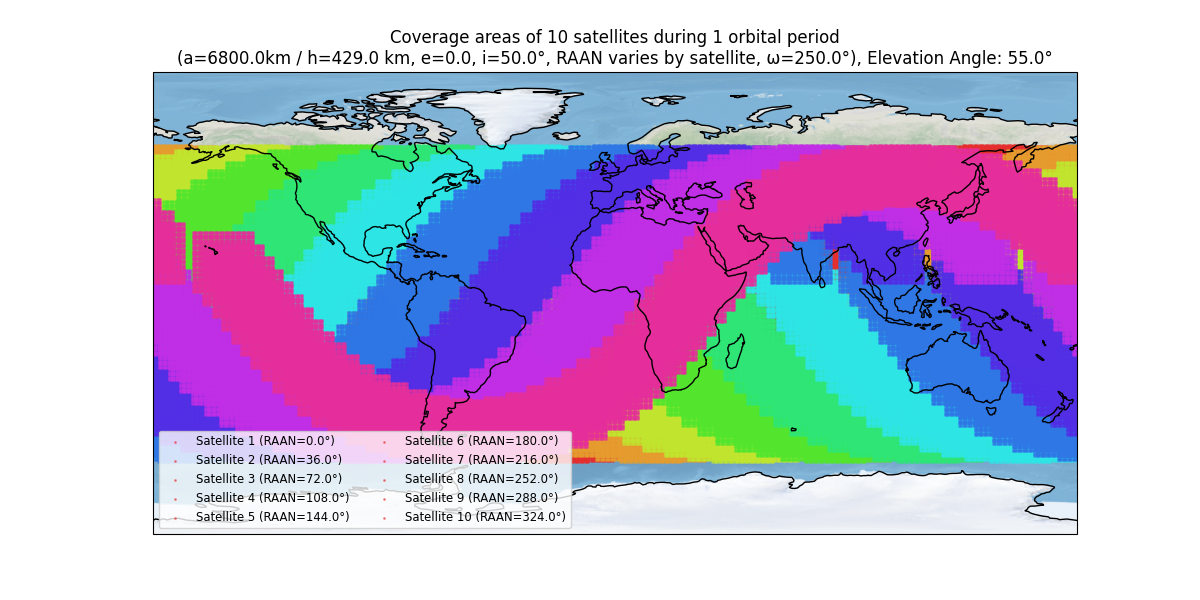
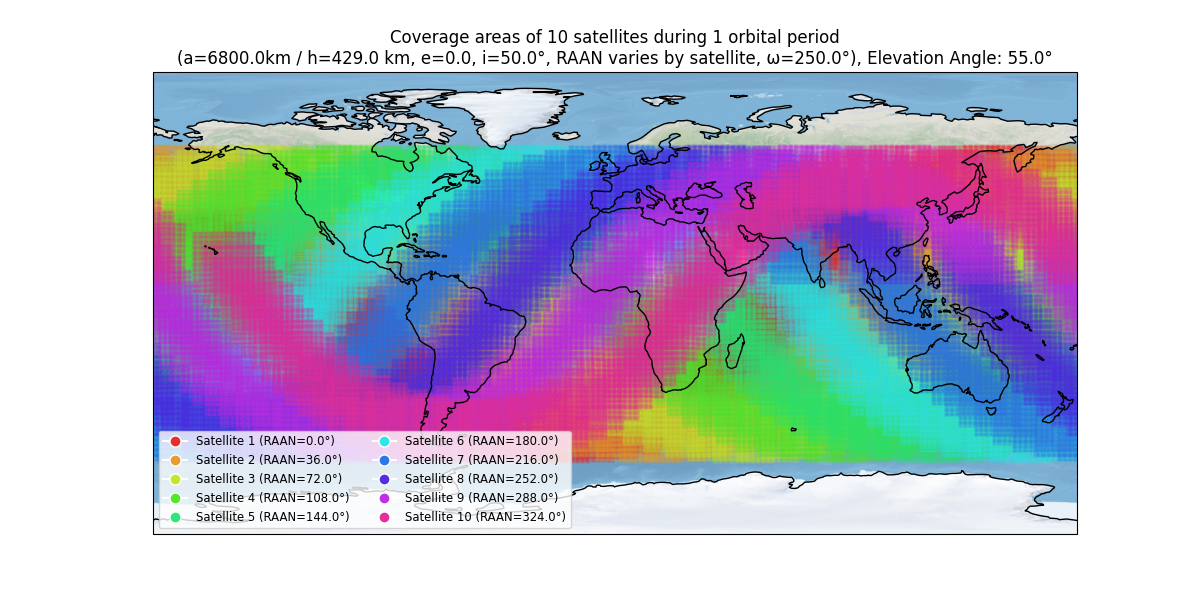
reran

Changed region(s): [[0.1233, 0.24, 0.925, 0.87]]

diff --git a/main.py b/main.py
@@ -14,7 +14,7 @@ import constants
 
 # atmosense, darpa, raytracing mit,
 ### INPUTS ###
-num_satellites = 5  # Number of satellites in the constellation
+num_satellites = 10  # Number of satellites in the constellation
 
 # Usage: include derivatives
 orbital_parameters = {
@@ -37,7 +37,7 @@ if __name__ == "__main__":
     # Define propagation window & step
     start_time_datetime = datetime(2025, 5, 5, 12, 00, 00, 00, tzinfo=timezone.utc) # my input
     end_time_datetime =   datetime(2025, 5, 5, 13, 37, 8, 00, tzinfo=timezone.utc) # my input
-    step = 100  # Time step input
+    step = 10  # Time step input
 
     ###### INITIAL PROPAGATION METHOD, SUBSTITUTED BY THE FUNCTION IN THE CONSTELLATION CLASS
     # # Convert start/end to Julian dates + fraction
@@ -190,7 +190,7 @@ if __name__ == "__main__":
 
                 # Plot coverage points for this satellite and time step
                 ax.scatter(
-                    lons, lats, s=1, color=colors[satellite_index], alpha=0.05, transform=ccrs.PlateCarree()
+                    lons, lats, s=1, color=colors[satellite_index], alpha=0.1, transform=ccrs.PlateCarree()
                 )
 
     # Create custom legend entries with opaque colors
